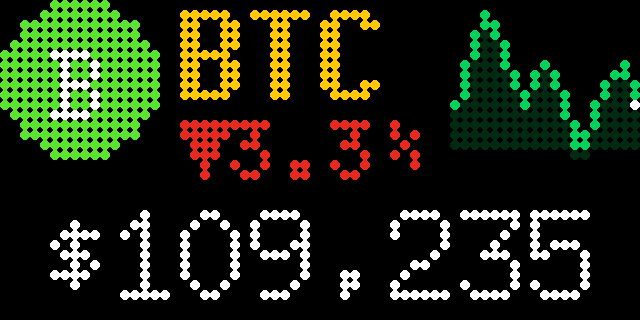
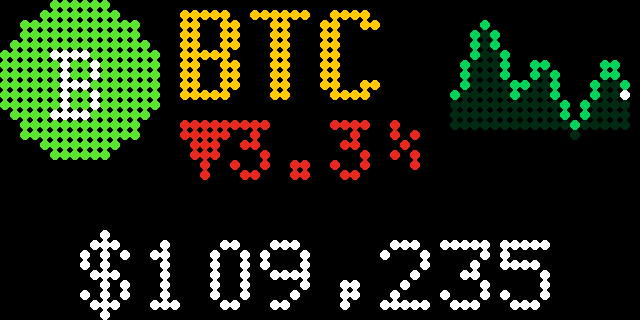
Coin screens: one "PRICES 08:00" header instead of a time on every coin
Jon found the per-coin time too busy. Instead:
- One header screen before the coins: "PRICES @ 08:00" (or "PRICES 08:00"
  when the @ doesn't fit), time in 24-hour local, and the coins that follow
  in the small font (up to 3 lines, "+N" for the rest). While prices are
  stale, the existing NO NETWORK? / PRICES FROM notice takes its place.
- Classic coin screen: smaller sparkline (rows 2-12) and the price a size
  smaller (6x12) at the very bottom, so there's clear space between the
  change line and the price.
- The tiny 3x5 font and the per-coin stamp are removed.

Claude-Session: https://claude.ai/code/session_01CrJip9iJt4GpEiYUED5guG

diff --git a/render.py b/render.py
@@ -17,36 +17,8 @@ SYMBOL = (255, 200, 0)
 PRICE = (255, 255, 255)
 DIM = (90, 90, 90)
 DIM_TEXT = (150, 150, 150)
-STAMP = (110, 110, 120)  # price time under the chart: readable, but quieter than the price
 
 CURRENCY_SIGNS = {"usd": "$", "eur": "€", "gbp": "£", "jpy": "¥", "cad": "$", "aud": "$"}
-
-
-# 3x5 digits and ":" for the price time under the coin chart: the BDF fonts' smallest
-# is 4x6, which doesn't fit there. (An "@" was tried; at 3x5 it reads as a smudge.)
-TINY = {
-    "0": ("###", "#.#", "#.#", "#.#", "###"), "1": (".#.", "##.", ".#.", ".#.", "###"),
-    "2": ("###", "..#", "###", "#..", "###"), "3": ("###", "..#", "###", "..#", "###"),
-    "4": ("#.#", "#.#", "###", "..#", "..#"), "5": ("###", "#..", "###", "..#", "###"),
-    "6": ("###", "#..", "###", "#.#", "###"), "7": ("###", "..#", "..#", "..#", "..#"),
-    "8": ("###", "#.#", "###", "#.#", "###"), "9": ("###", "#.#", "###", "..#", "###"),
-    ":": (".", "#", ".", "#", "."),
-}
-
-
-def tiny_width(text):
-    return sum(len(TINY[c][0]) + 1 for c in text) - 1 if text else 0
-
-
-def draw_tiny(img, x, top, text, color):
-    px = img.load()
-    for c in text:
-        rows = TINY[c]
-        for dy, row in enumerate(rows):
-            for dx, bit in enumerate(row):
-                if bit == "#" and 0 <= x + dx < img.width and 0 <= top + dy < img.height:
-                    px[x + dx, top + dy] = color
-        x += len(rows[0]) + 1
 
 
 def load_fonts():
@@ -236,14 +208,12 @@ class Renderer:
             prev = y
 
     # --- screens ----------------------------------------------------------
-    def asset(self, asset, stale=False, stamp=None):
-        """stamp: when the price was fetched (a datetime, local time), shown small under
-        the chart in the classic layout as "08:00" (24-hour, local time)."""
+    def asset(self, asset, stale=False):
         layout = self.layout
         if layout == "mix":
             layout = ("classic", "chart")[self._count % 2]
         self._count += 1
-        img = self._chart_screen(asset) if layout == "chart" else self._classic_screen(asset, stamp)
+        img = self._chart_screen(asset) if layout == "chart" else self._classic_screen(asset)
         return self.stale_mark(img) if stale else img
 
     def stale_mark(self, img):
@@ -299,7 +269,7 @@ class Renderer:
             self._outlined(img, f["4x6"], self.w - tag_w - 1, self.h - 1, "7D", (170, 170, 170))
         return img
 
-    def _classic_screen(self, asset, stamp=None):
+    def _classic_screen(self, asset):
         img = self.blank()
         f = self.fonts
         icon = self.icons.get(asset, f["6x10"]) if self.icons else None
@@ -324,20 +294,11 @@ class Renderer:
             # symbol uses rows 1-9, change rows 12-18, price rows 21-30: 2px gaps
             end2 = f["5x8"].draw(img, tx, 18, ctext, trend_color(change))
             sx = max(end1, end2) + 2
-            if stamp is None:
-                self._sparkline(img, asset.get("sparkline", []), (sx, 1, self.w - 1, 14))
-            else:
-                # chart one row shorter; the price time goes under it, right-aligned in
-                # rows 15-19 (clear of the change text, above the price)
-                self._sparkline(img, asset.get("sparkline", []), (sx, 1, self.w - 1, 13))
-                room = self.w - (end2 + 2)
-                hh, mm = stamp.hour, stamp.minute
-                for t in (f"{hh:02d}:{mm:02d}", f"{hh}:{mm:02d}"):  # 24-hour, local
-                    if tiny_width(t) <= room:
-                        draw_tiny(img, self.w - tiny_width(t), 15, t, STAMP)
-                        break
-            font, text = self._fit_text(prices, [f["7x13"], f["6x12"], f["5x8"]], self.w)
-            font.draw(img, (self.w - font.width(text)) // 2, self.h - 2, text, PRICE)
+            # smaller chart, top-right, so the left column breathes
+            self._sparkline(img, asset.get("sparkline", []), (sx, 2, self.w - 2, 12))
+            # a size smaller than before, sitting lower: clear space under the change line
+            font, text = self._fit_text(prices, [f["6x12"], f["6x10"], f["5x8"]], self.w)
+            font.draw(img, (self.w - font.width(text)) // 2, self.h - 1, text, PRICE)
         return img
 
     def featured(self, asset, stale=False):
@@ -1129,6 +1090,45 @@ class Renderer:
             font.draw(img, right - font.width(text), baseline, text, color)
         img = self._place(img)
         return self.stale_mark(img) if stale else img
+
+    def prices_header(self, when, symbols):
+        """Before the coins: when the prices were fetched and which coins follow, e.g.
+        PRICES @ 08:00 / BTC ETH ADA SNEK / PEPE NIGHT +3."""
+        img = self._base()
+        f = self.fonts
+        label, stamp = "PRICES @", f"{when.hour:02d}:{when.minute:02d}"
+        tf = f["5x8"]
+        if tf.width(f"{label} {stamp}") > 64:
+            label = "PRICES"  # 5x8 has no room for the "@" too
+        x = (64 - tf.width(f"{label} {stamp}")) // 2
+        x = tf.draw(img, x, 8, label + " ", DIM_TEXT)
+        tf.draw(img, x, 8, stamp, PRICE)
+        small = f["4x6"]
+        lines, line, shown = [], "", 0
+        for sym in symbols:
+            cand = f"{line} {sym}".strip()
+            if small.width(cand) <= 63:
+                line, shown = cand, shown + 1
+                continue
+            lines.append(line)
+            line = sym
+            shown += 1
+            if len(lines) == 3:
+                shown -= 1
+                break
+        if line and len(lines) < 3:
+            lines.append(line)
+        left = len(symbols) - shown
+        if left > 0:  # make room for "+N" on the last line
+            last, more = lines[-1], f"+{left}"
+            while last and small.width(f"{last} {more}") > 63:
+                last = last.rsplit(" ", 1)[0] if " " in last else ""
+                left += 1
+                more = f"+{left}"
+            lines[-1] = f"{last} {more}".strip()
+        for i, txt in enumerate(lines[:3]):
+            small.draw(img, (64 - small.width(txt)) // 2, 17 + i * 7, txt, SYMBOL)
+        return self._place(img)
 
     def stale_notice(self, when, reason=""):
         """Shown before the coins while prices can't be refreshed: what went wrong and when

diff --git a/tests/test_focus_list.py b/tests/test_focus_list.py
@@ -371,7 +371,7 @@ def test_stale_prices_get_a_dated_notice_first(monkeypatch):
     assert seen and seen[0][1] == "NO NETWORK?" and len(screens) == len(SYMS) + 1
 
 
-def test_live_prices_have_no_notice():
+def test_no_header_before_the_first_fetch():
     t = ticker()
     t.stale = False
     assert len(t.coin_screens()) == len(SYMS)
@@ -390,30 +390,31 @@ def test_stale_notice_fits():
     assert all(x >= 0 and x + font.width(txt) <= 64 for x, txt in drawn)
 
 
-def test_coin_screen_shows_fetch_time(monkeypatch):
+def test_live_prices_get_a_header_with_time_and_symbols(monkeypatch):
     import time as _time
     t = ticker()
     t.stale, t.last_success = False, _time.time()
     seen = []
-    monkeypatch.setattr(t.renderer, "asset", lambda a, stale=False, stamp=None: seen.append(stamp))
-    for s in t.coin_screens():
-        s()
-    assert seen and all(st is not None for st in seen)
-    t.last_success = 0
-    assert t.price_time() is None
+    monkeypatch.setattr(t.renderer, "prices_header", lambda when, syms: seen.append(syms))
+    monkeypatch.setattr(t.renderer, "asset", lambda a, stale=False: None)
+    screens = t.coin_screens()
+    screens[0]()
+    assert seen == [[s.upper() for s in SYMS]] and len(screens) == len(SYMS) + 1
 
 
-def test_tiny_time_fits_under_the_chart():
+def test_prices_header_fits_and_counts_the_rest():
     from datetime import datetime
-    from render import Renderer, tiny_width
-    from sample import sample_assets
+    from render import Renderer
     r = Renderer()
-    r.layout = "classic"
-    a = sample_assets(["ada"])[0] | {"change_24h": -2.7}
-    img = r.asset(a, stamp=datetime(2026, 11, 4, 22, 41))
-    assert img.size == (64, 32) and tiny_width("22:41") == 17
-    rows = {y for y in range(32) for x in range(64) if img.getpixel((x, y)) == (110, 110, 120)}
-    assert rows and rows <= set(range(15, 20))  # drawn in rows 15-19 only
-    # a long symbol with a big change leaves no room: the time is simply left out
-    b = sample_assets(["night"])[0] | {"change_24h": -12.5}
-    assert r.asset(b, stamp=datetime(2026, 11, 4, 22, 41)).size == (64, 32)
+    small = r.fonts["4x6"]
+    drawn = []
+    real = small.draw
+    small.draw = lambda img, x, b, txt, c: (drawn.append((x, txt)), real(img, x, b, txt, c))[1]
+    syms = ["BTC", "ETH", "ADA", "LINK", "HBAR", "PEPE", "DOGE", "SNEK", "SOL", "NIGHT", "XRP"]
+    img = r.prices_header(datetime(2026, 11, 4, 8, 0), syms)
+    assert img.size == (64, 32) and len(drawn) == 3
+    assert all(x >= 0 and x + small.width(txt) <= 64 for x, txt in drawn)
+    shown = sum(len([w for w in txt.split() if not w.startswith("+")]) for _, txt in drawn)
+    more = int(drawn[-1][1].split("+")[-1])
+    assert shown + more == len(syms)
+

diff --git a/ticker.py b/ticker.py
@@ -822,7 +822,7 @@ class Ticker:
 
     def price_time(self):
         """When the prices on screen were fetched, in local time (None if never), for the
-        small "08:00" under each coin's chart. Stale prices keep their own fetch time."""
+        "PRICES @ 08:00" screen before the coins. Stale prices keep their own fetch time."""
         ts = self.stale_since if self.stale and self.stale_since else self.last_success
         return datetime.fromtimestamp(ts, self.tz) if ts else None
 
@@ -836,6 +836,10 @@ class Ticker:
             when = datetime.fromtimestamp(self.stale_since, self.tz)
             out.append(lambda when=when: (self.renderer.stale_notice(when, self.error_reason()),
                                           max(3.0, sleep)))
+        elif coins and self.price_time():  # live: when they were fetched, and what follows
+            syms = [a["symbol"] for a in coins]
+            out.append(lambda when=self.price_time(), syms=syms: (
+                self.renderer.prices_header(when, syms), max(3.0, sleep)))
 
         # In Focus mode every coin shown is starred, so big + regular screens doubled each
         # coin; there the big screen stands alone and gets the full time per coin.
@@ -846,14 +850,14 @@ class Ticker:
                 out.append(lambda a=asset: (self.renderer.featured(a, stale=self.stale), sleep))
                 return
             out.append(lambda a=asset: (self.renderer.featured(a, stale=self.stale), max(2.0, sleep * 0.6)))
-            out.append(lambda a=asset: (self.renderer.asset(a, stale=self.stale, stamp=self.price_time()), sleep))
+            out.append(lambda a=asset: (self.renderer.asset(a, stale=self.stale), sleep))
 
         # the normal rotation: every coin full screen (starred ones with their big screen)
         for asset in coins:
             if asset["id"] in starred_ids:
                 big(asset)
             else:
-                out.append(lambda a=asset: (self.renderer.asset(a, stale=self.stale, stamp=self.price_time()), sleep))
+                out.append(lambda a=asset: (self.renderer.asset(a, stale=self.stale), sleep))
         # List view adds the list pages at the end of each cycle, as a summary
         if self.cfg.list_view:
             n = self.cfg.list_view

diff --git a/tests/test_ticker.py b/tests/test_ticker.py
@@ -55,7 +55,7 @@ def test_normal_refresh(http, ok):
     assert [a["symbol"] for a in t.assets] == ["BTC", "ETH", "ADA"]
     assert not t.stale and t.failures == 0
     t.step()
-    assert len(t.display.frames) == 3
+    assert len(t.display.frames) == 1 + 3  # the "PRICES 08:00" header, then the 3 coins
     assert not any(has_stale_marker(f) for f in t.display.frames)
 
 
